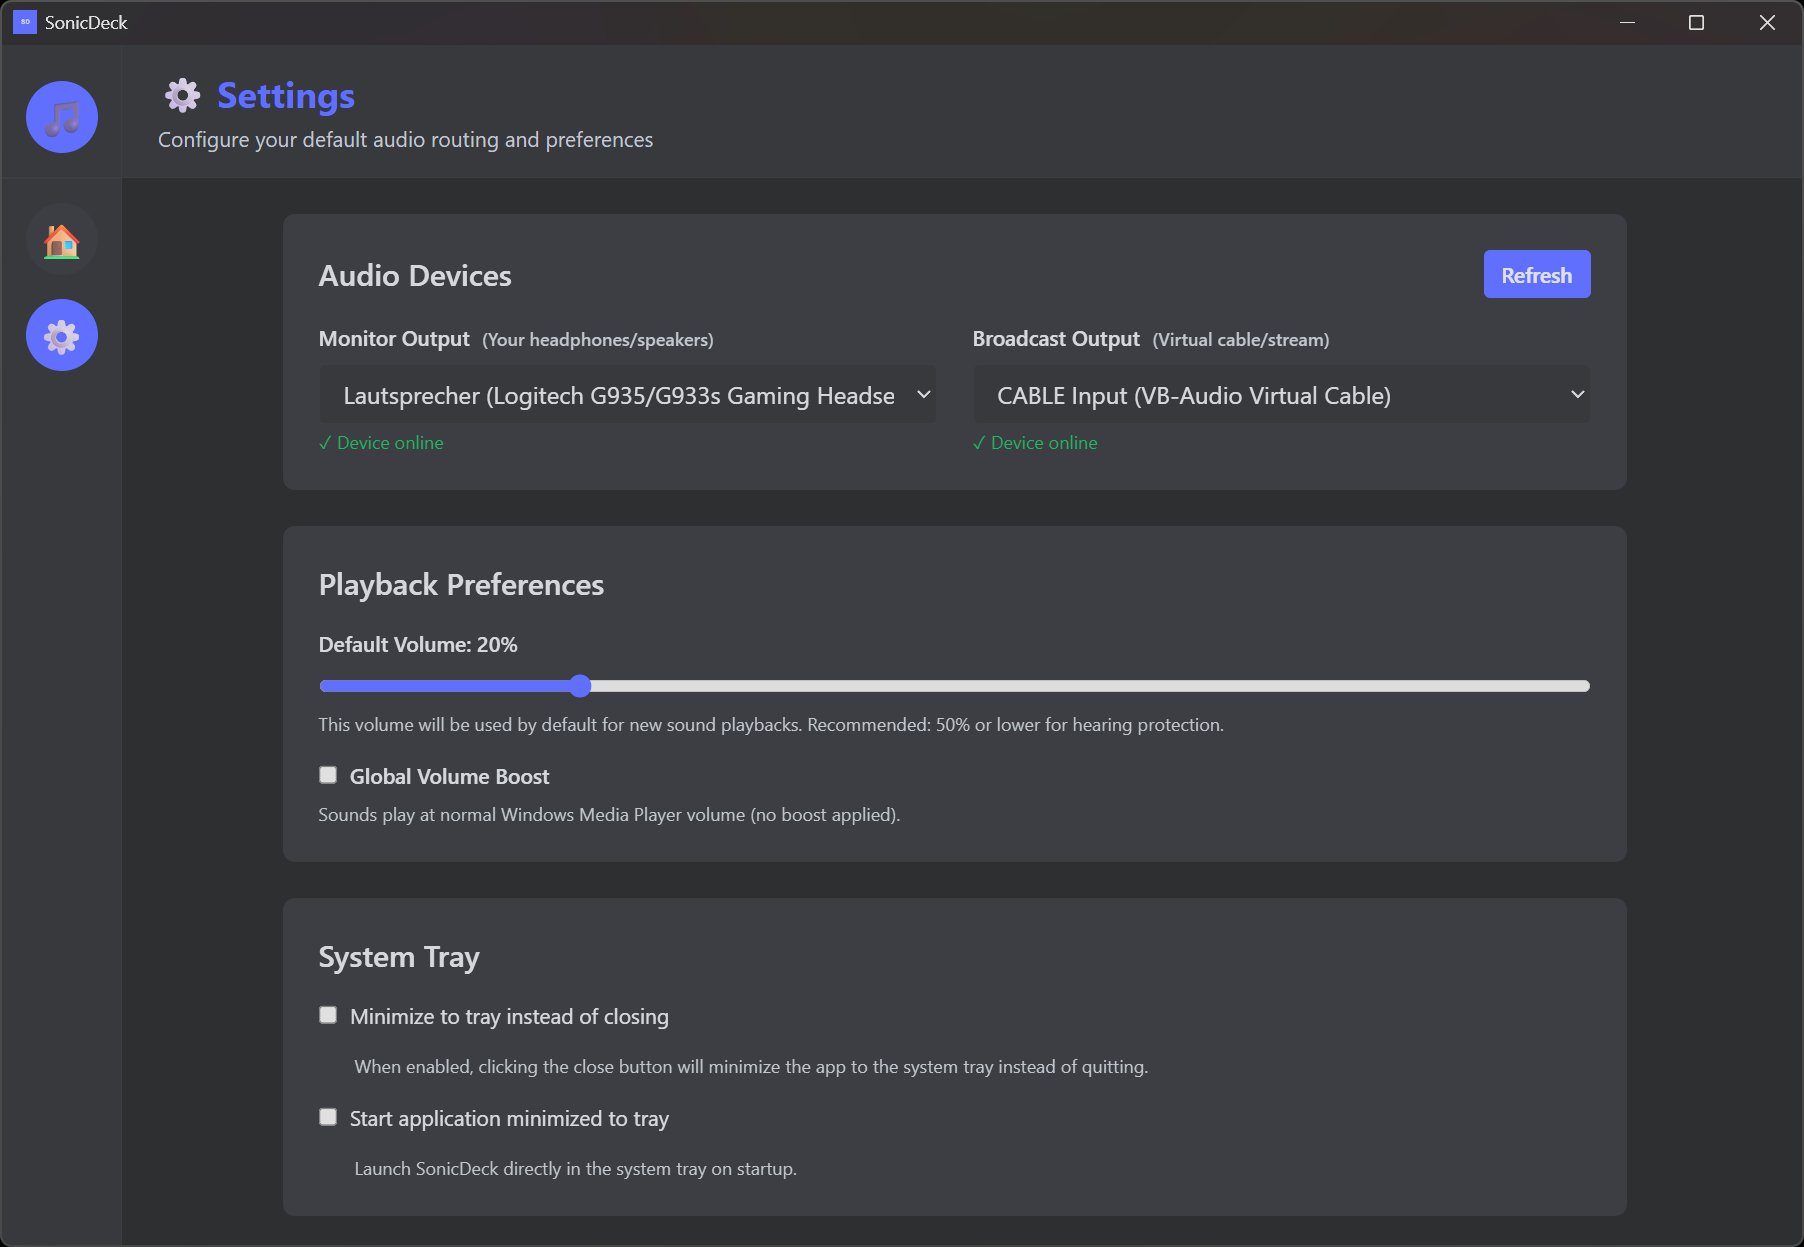
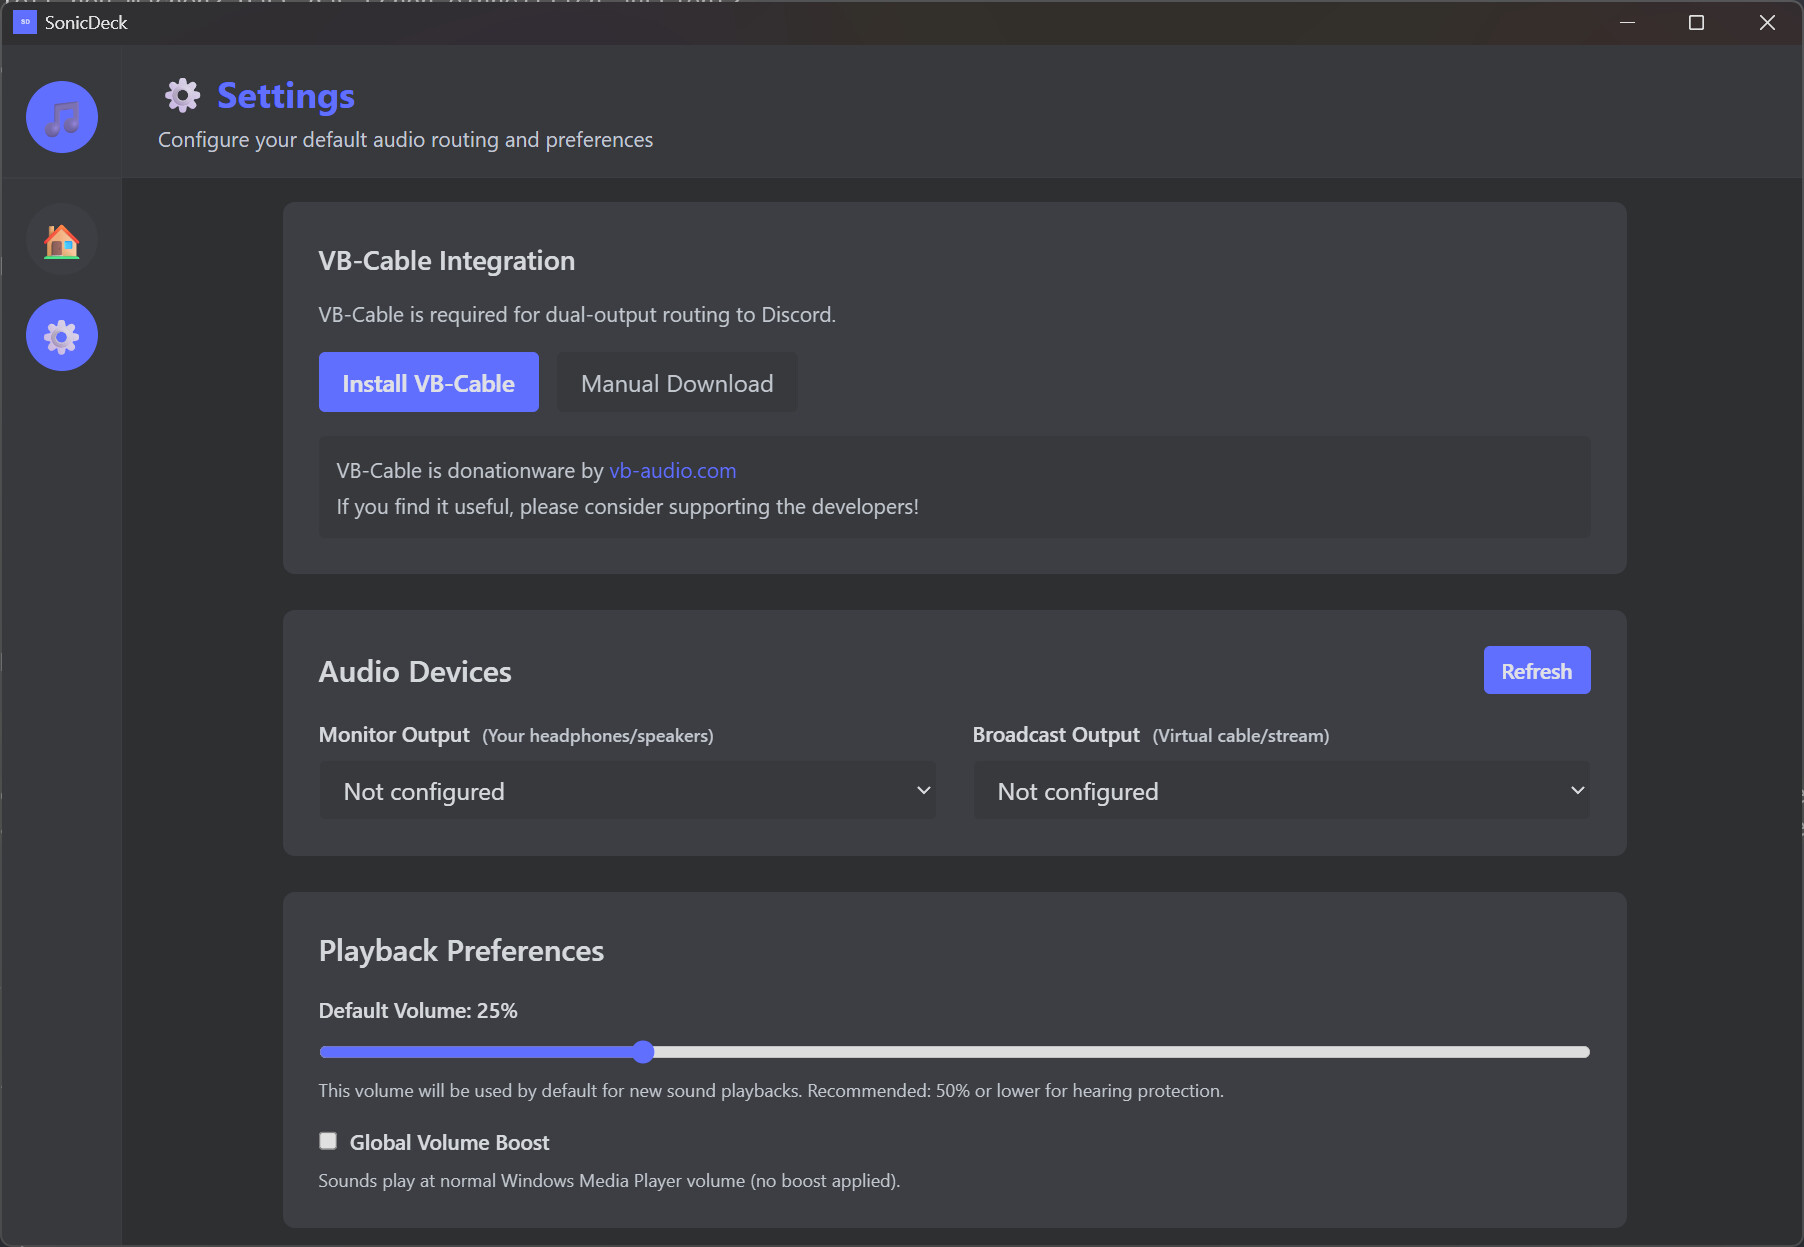
docs: update README with VB-Cable feature and new screenshots
- Add VB-Cable Integration section to Features
- Update settings screenshots (new PNG->JPG conversions)
- Add VB-Cable installation states screenshots
- Remove emojis from new content sections

diff --git a/README.md b/README.md
@@ -27,14 +27,26 @@ Designed for gamers, streamers, and content creators who need professional audio
 <details>
 <summary>Click to view all settings panels</summary>
 
-![Settings - Audio Devices](docs/screenshots/settings_1.jpg)
-*Audio device configuration with dual-output routing*
+![Settings - VB-Cable & Audio Devices](docs/screenshots/settings_1.jpg)
+*VB-Cable integration, audio device configuration, and playback preferences*
 
-![Settings - Playback & System Tray](docs/screenshots/settings_2.jpg)
-*Playback settings and system tray integration*
+![Settings - System Tray & Devices](docs/screenshots/settings_2.jpg)
+*System tray options, startup behavior, and available devices overview*
 
 ![Settings - About](docs/screenshots/settings_3.jpg)
 *App information and external links*
+
+</details>
+
+### VB-Cable Integration (Discord Audio Routing)
+<details>
+<summary>Click to view VB-Cable setup states</summary>
+
+![VB-Cable Installed](docs/screenshots/settings_vbcable_installed.jpg)
+*VB-Cable installed with microphone routing options*
+
+![VB-Cable Routing Enabled](docs/screenshots/settings_vbcable_routing.jpg)
+*Microphone routing active - friends hear you AND your sounds*
 
 </details>
 
@@ -59,12 +71,19 @@ Designed for gamers, streamers, and content creators who need professional audio
 
 ---
 
-## ✨ Features
+## Features
 
-### 🎧 Dual-Audio Routing
+### VB-Cable Integration (Discord Audio Routing)
+Share your soundboard with Discord friends while they can still hear your voice:
+- **One-Click Install**: Automatic VB-Cable download and setup from within the app
+- **Microphone Routing**: Your voice gets mixed with sounds - friends hear both
+- **Device Protection**: Original Windows default devices automatically restored after install
+- **Low Latency**: 100ms audio passthrough for natural voice chat
+
+### Dual-Audio Routing
 Play sounds to two separate audio devices simultaneously (e.g., headphones + virtual audio cable for streaming).
 
-### 🎛 Sound Library Management
+### Sound Library Management
 - **Category Organization**: Organize sounds with custom categories
 - **Drag & Drop Import**: Drop MP3, WAV, OGG, or M4A/AAC files directly into the app
 - **Favorites System**: Star your most-used sounds for quick access
